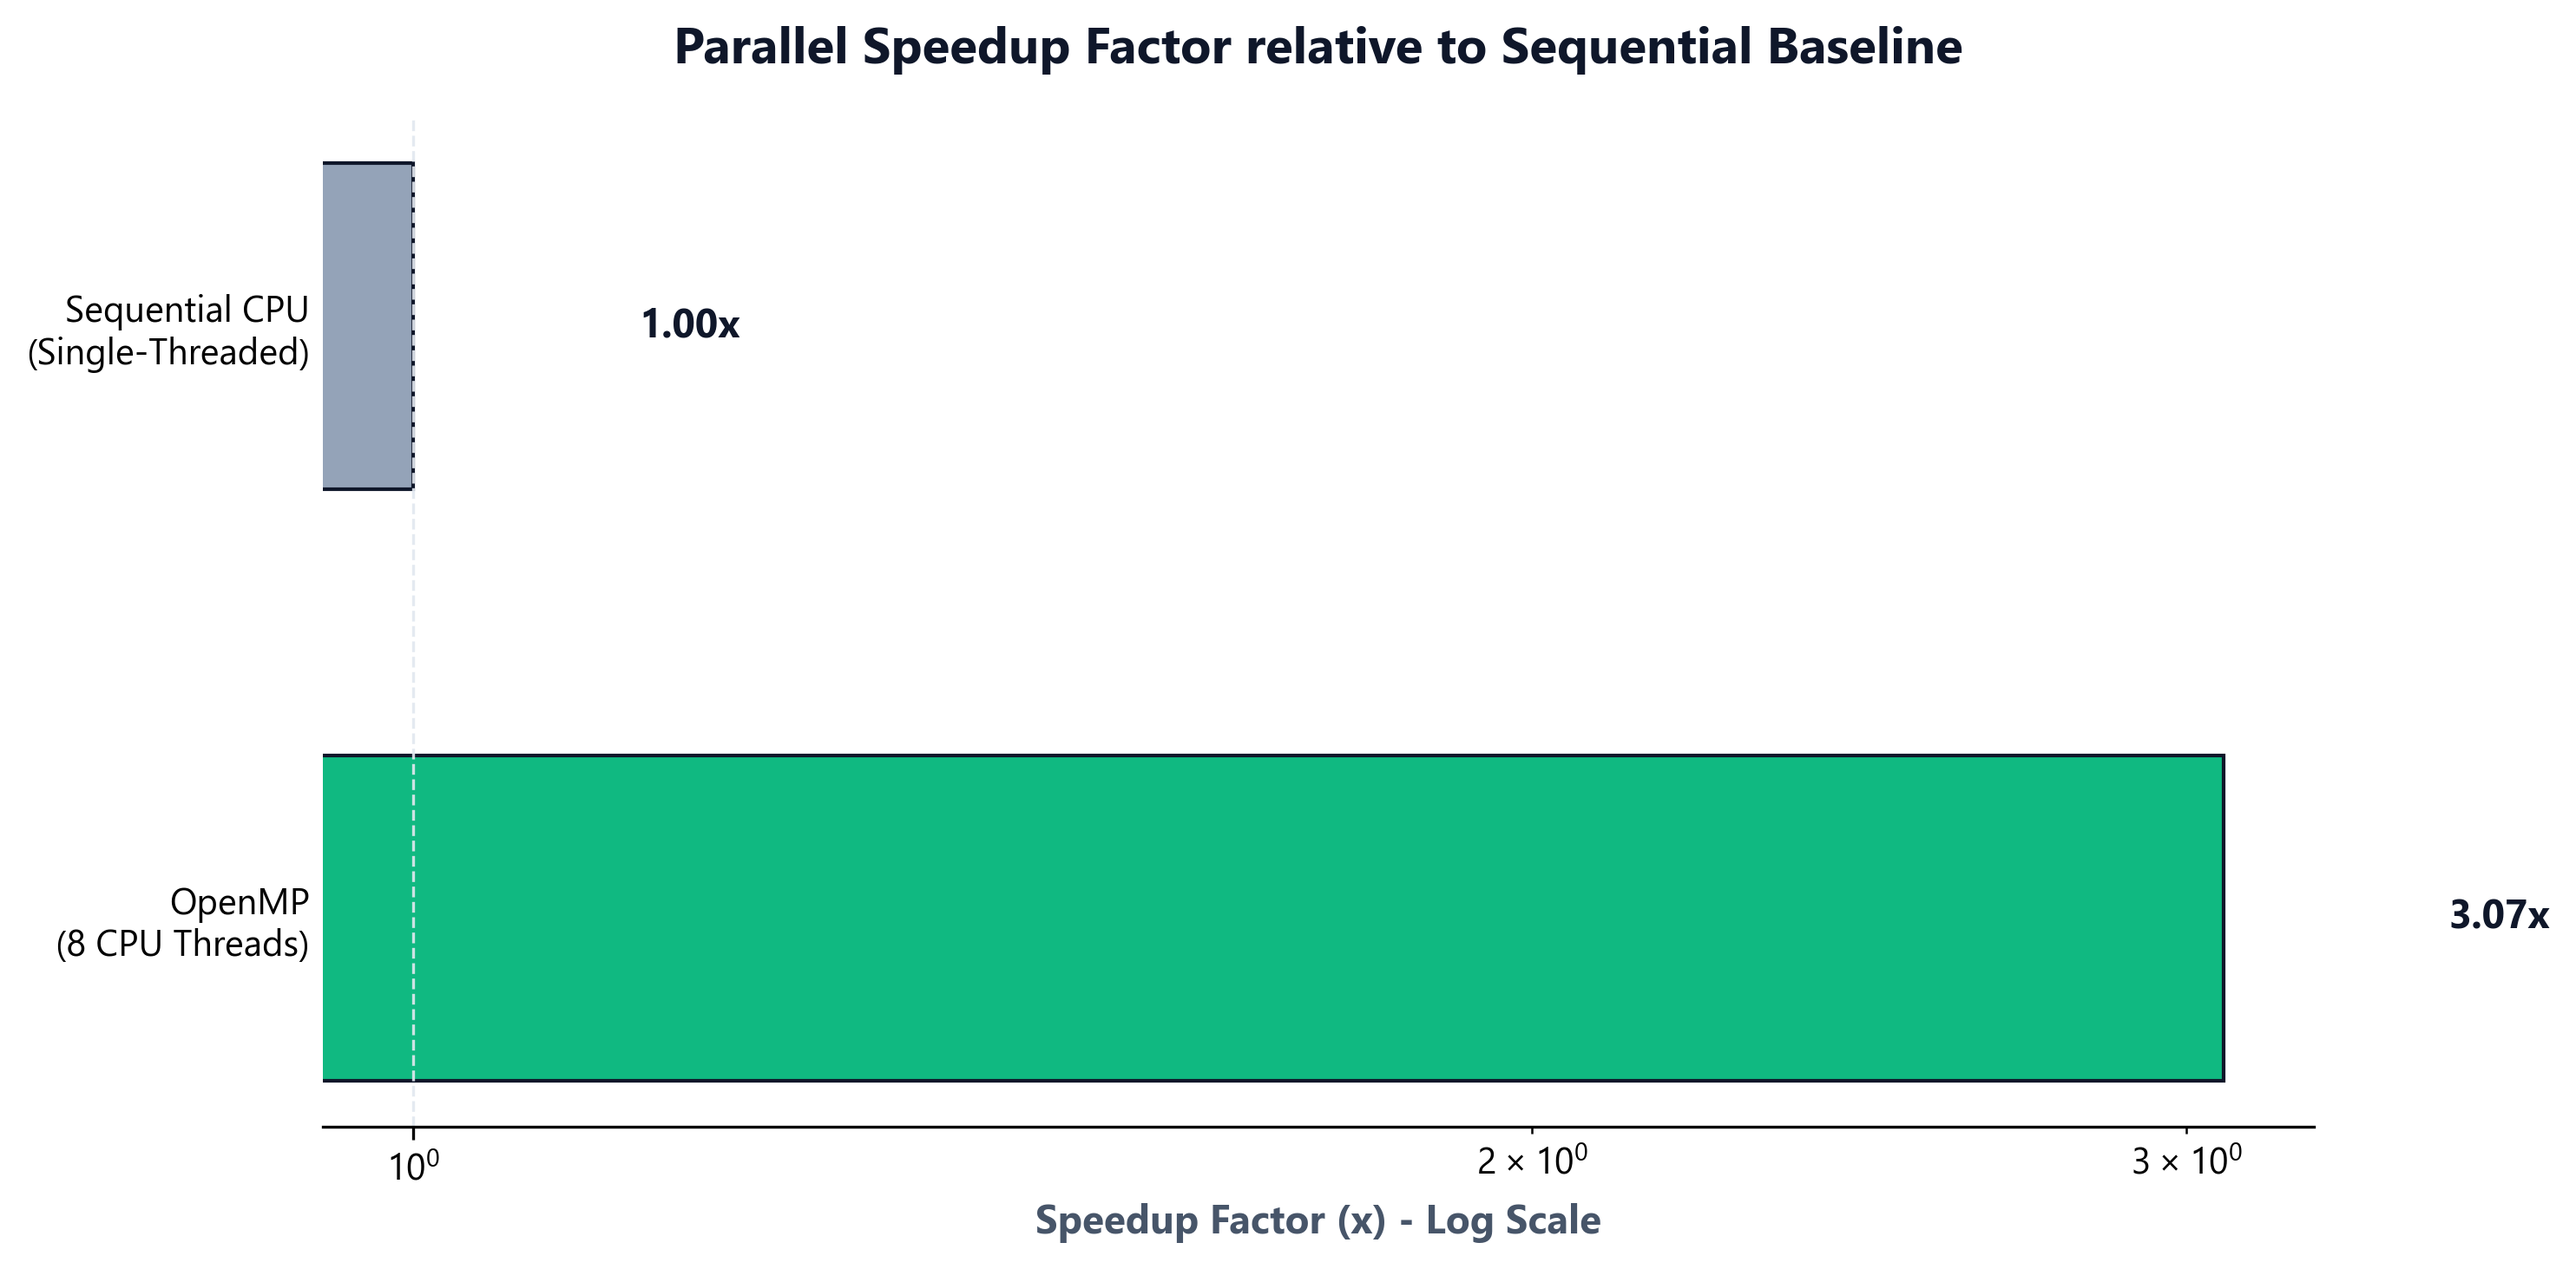
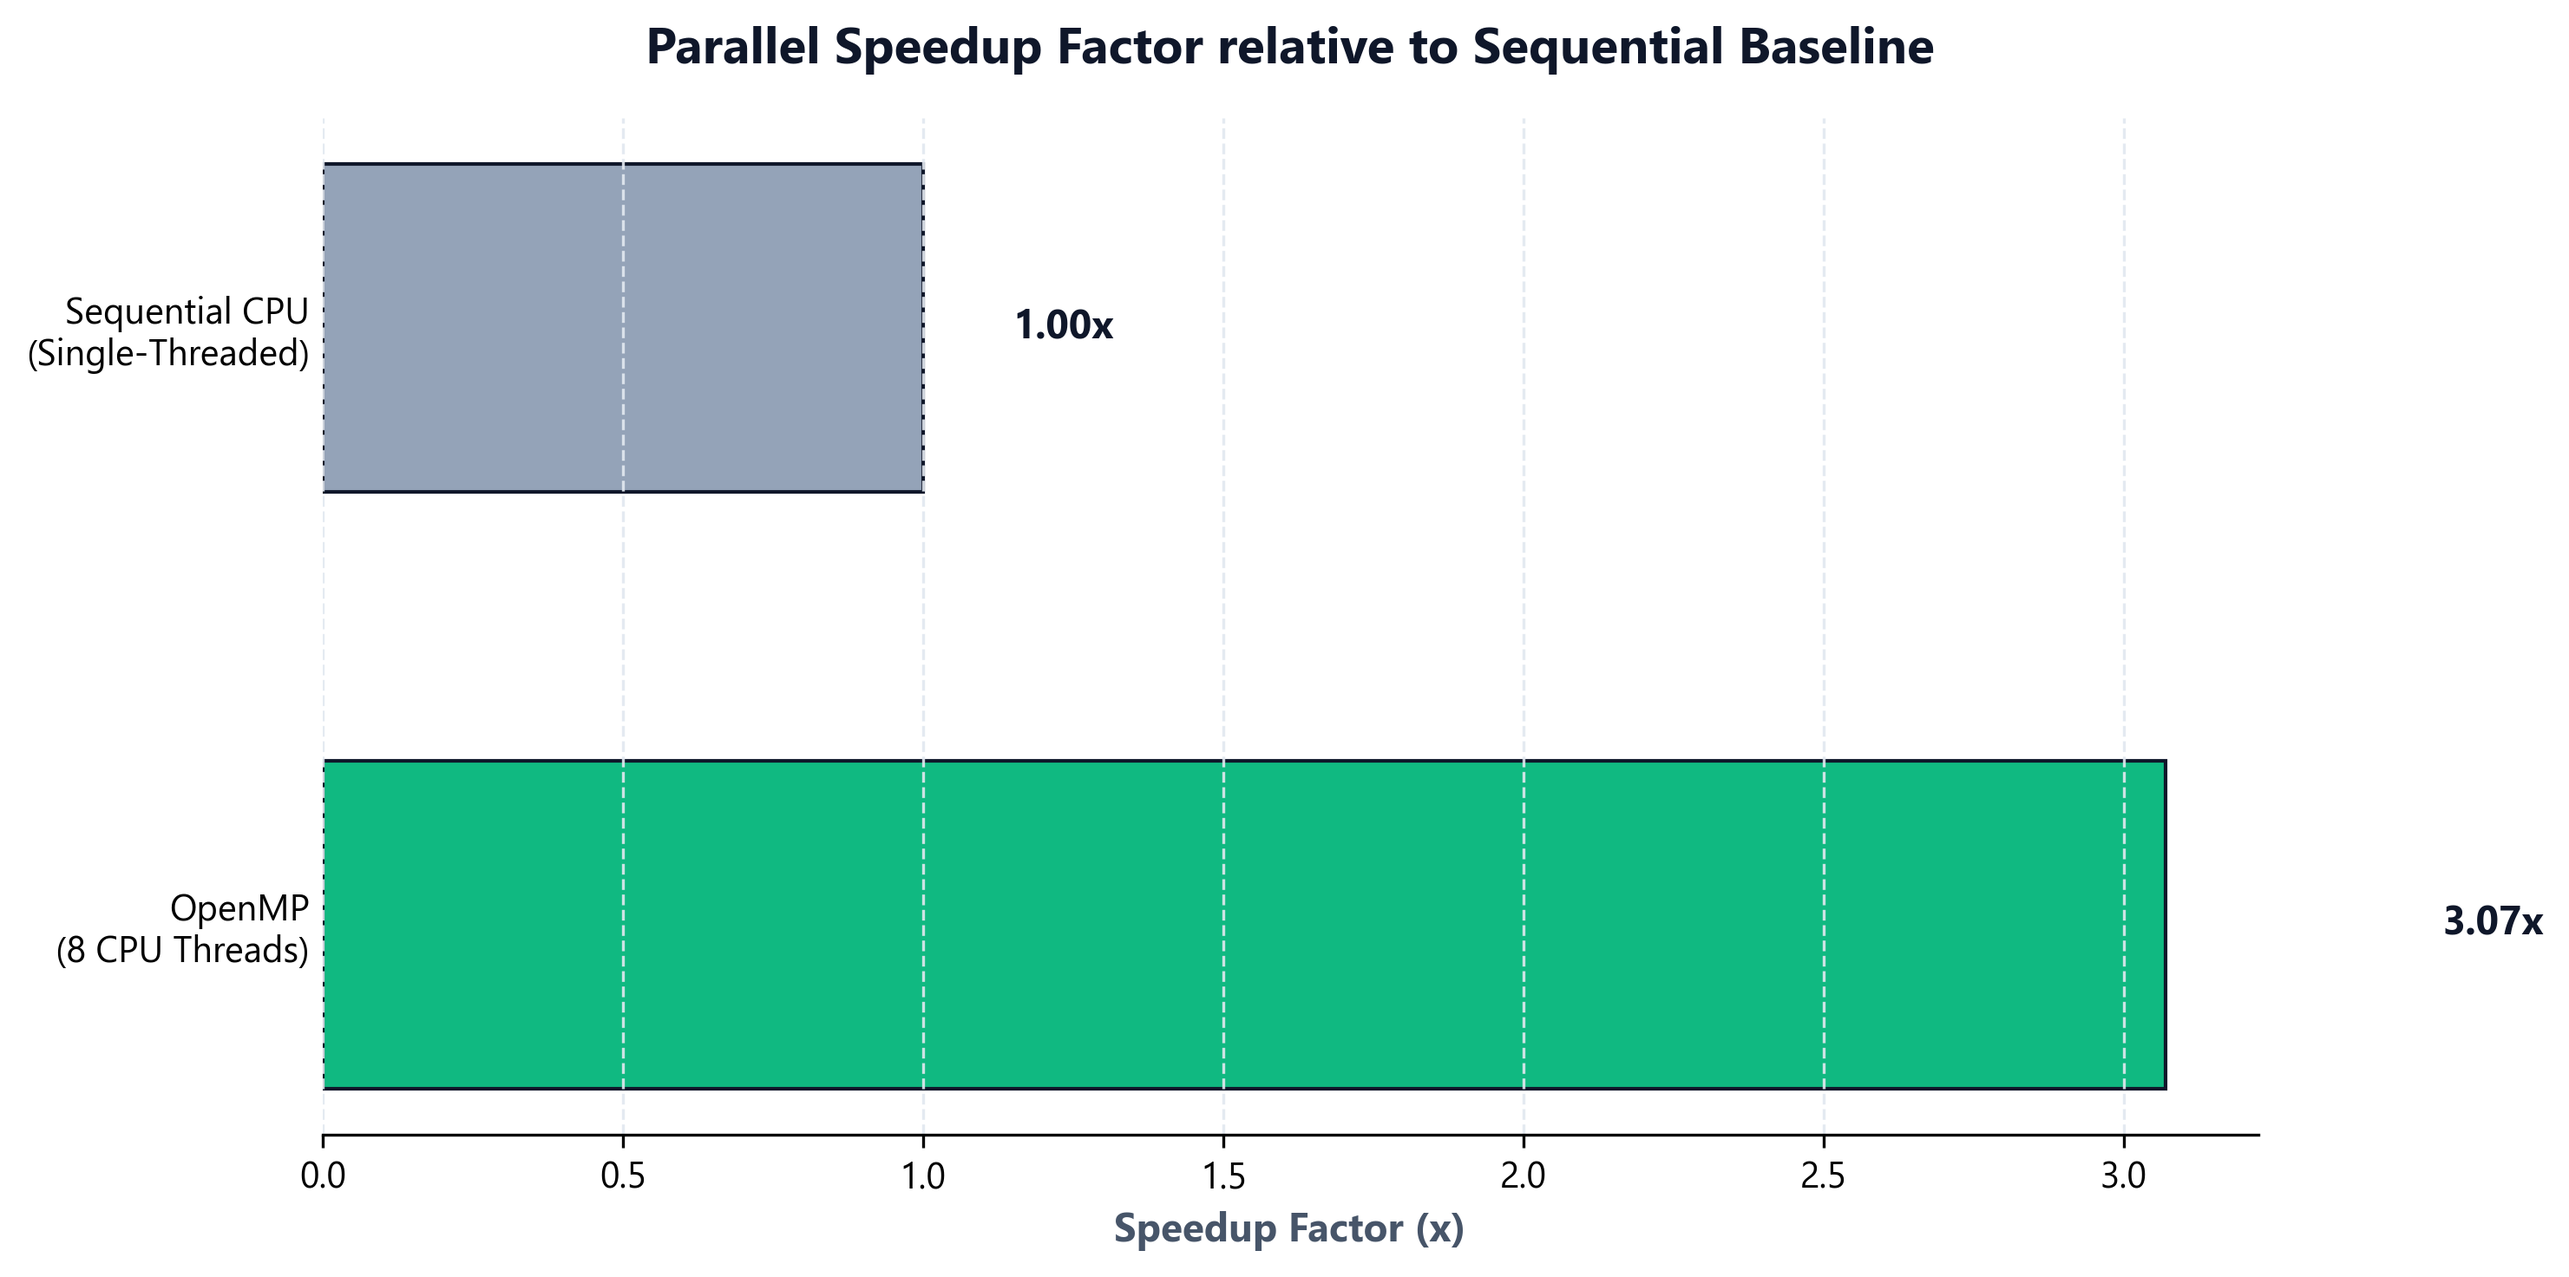
Remove log scale from charts

diff --git a/script/chart.py b/script/chart.py
@@ -22,9 +22,8 @@ fig, (ax1, ax2) = plt.subplots(1, 2, figsize=(16, 6.5), facecolor='#FFFFFF')
 
 bars1 = ax1.barh(models, times, color=colors, height=0.55, edgecolor='#0F172A', linewidth=1)
 
-ax1.set_xscale('log')
 ax1.set_title('Benchmark Execution Time', fontsize=14, fontweight='bold', color='#0F172A', pad=15)
-ax1.set_xlabel('Execution Time (Seconds) - Log Scale', fontsize=11, fontweight='bold', color='#475569')
+ax1.set_xlabel('Execution Time (Seconds)', fontsize=11, fontweight='bold', color='#475569')
 ax1.grid(True, axis='x', linestyle='--', color='#E2E8F0', alpha=0.9)
 ax1.spines['top'].set_visible(False)
 ax1.spines['right'].set_visible(False)
@@ -39,9 +38,8 @@ for bar, time in zip(bars1, times):
 
 bars2 = ax2.barh(models, speedups, color=colors, height=0.55, edgecolor='#0F172A', linewidth=1)
 
-ax2.set_xscale('log')
 ax2.set_title('Parallel Speedup Factor', fontsize=14, fontweight='bold', color='#0F172A', pad=15)
-ax2.set_xlabel('Speedup vs. Sequential - Log Scale', fontsize=11, fontweight='bold', color='#475569')
+ax2.set_xlabel('Speedup vs. Sequential', fontsize=11, fontweight='bold', color='#475569')
 ax2.grid(True, axis='x', linestyle='--', color='#E2E8F0', alpha=0.9)
 ax2.spines['top'].set_visible(False)
 ax2.spines['right'].set_visible(False)
@@ -63,9 +61,9 @@ plt.close()
 fig, ax = plt.subplots(figsize=(10, 5), facecolor='#FFFFFF')
 bars = ax.barh(models, times, color=colors, height=0.55, edgecolor='#0F172A', linewidth=1)
 
-ax.set_xscale('log')
+
 ax.set_title('Matrix Multiplication (4000x4000) Execution Time Comparison', fontsize=14, fontweight='bold', color='#0F172A', pad=15)
-ax.set_xlabel('Execution Time (Seconds) - Log Scale', fontsize=11, fontweight='bold', color='#475569')
+ax.set_xlabel('Execution Time (Seconds)', fontsize=11, fontweight='bold', color='#475569')
 ax.grid(True, axis='x', linestyle='--', color='#E2E8F0', alpha=0.9)
 ax.spines['top'].set_visible(False)
 ax.spines['right'].set_visible(False)
@@ -86,9 +84,8 @@ plt.close()
 fig, ax = plt.subplots(figsize=(10, 5), facecolor='#FFFFFF')
 bars = ax.barh(models, speedups, color=colors, height=0.55, edgecolor='#0F172A', linewidth=1)
 
-ax.set_xscale('log')
 ax.set_title('Parallel Speedup Factor relative to Sequential Baseline', fontsize=14, fontweight='bold', color='#0F172A', pad=15)
-ax.set_xlabel('Speedup Factor (x) - Log Scale', fontsize=11, fontweight='bold', color='#475569')
+ax.set_xlabel('Speedup Factor (x)', fontsize=11, fontweight='bold', color='#475569')
 ax.grid(True, axis='x', linestyle='--', color='#E2E8F0', alpha=0.9)
 ax.spines['top'].set_visible(False)
 ax.spines['right'].set_visible(False)
